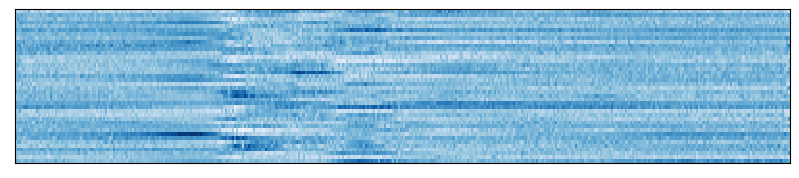
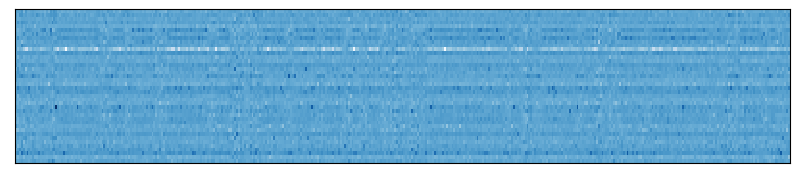
vis gesture code

diff --git a/src/utils.py b/src/utils.py
@@ -582,7 +582,7 @@ def draw_2d_ema(ema_data, ema_data_hat, mode, title, **args):
     plt.title(title,fontdict = {'fontsize' : 50})
 
     #plt.savefig(os.path.join(args['save_path'], title+"_2d_"+".png"))
-    plt.savefig("/home/jiachenlian/ema_gesture/"+title+"_2d"+".png")
+    plt.savefig("/home/jiachenlian/ema_gesture/gestures/"+title+"_2d"+".png")
 
     plt.clf()
     
@@ -874,20 +874,13 @@ def draw_3d_ieee(ema_data, ema_data_hat, mode, title, **args):
     
     
 def vis_gestures_ema(model, **args):
-    #gestures = model.conv_decoder.weight #[num_pellets, 1, num_gestures, win_size]
-    if args['vq_resynthesis']:
-        gestures = model.vq_model._embedding.weight.reshape(args['num_gestures'], args['num_pellets'], args['win_size']).permute(1,0,2).unsqueeze(1)
-    else:
-        gestures = model.gesture_weight.unsqueeze(1)
-        
-    print(gestures.shape)
+     #[num_pellets, 1, num_gestures, win_size]
+    gestures = model.g1.permute(2, 0, 1).unsqueeze(1)
+    print(f"gesture shape: {gestures.shape}")
     
     ema_id, wav_path, mel_data, text_trans = ema2info(**args)
-    #draw_mel_ema(mels=mel_data, mode=ema_id, title=text_trans)
-    #draw_mel2(wav=wav_path, mode=ema_id, title=text_trans)
     for i in range(args['num_gestures']):
         gesture_index = i
-        #draw_kinematics_ema(gestures[:,0,gesture_index,:].unsqueeze(0).cpu().detach().numpy(), None, mode='gesture', title='Gesture '+str(gesture_index), **args)
         draw_2d_ema(gestures[:,0,gesture_index,:].transpose(0,1).cpu().detach().numpy(), None, mode='gesture', title='Gesture'+str(gesture_index), **args)
 
     

diff --git a/src/trainer.py b/src/trainer.py
@@ -188,14 +188,17 @@ def trainer_resynthesis_ema(model, optimizer, lr_scheduler, ema_dataloader_train
             inp, inp_hat, (h1,h2,h3,h4,h5), (z1,z2,z3,z4,z5), (z1_hat,z5_hat), sparsity_c, sparsity_t, entropy_c, entropy_t = model(ema_batch, None)
 
             rec_loss = F.l1_loss(inp, inp_hat, reduction='mean')
+
+            rec_z1_loss = F.l1_loss(z1, z1_hat.transpose(1,2), reduction='mean') 
+            rec_z5_loss = F.l1_loss(z5, z5_hat.transpose(1,2), reduction='mean') 
                 
-            loss = args['rec_factor']*rec_loss
+            loss = args['rec_factor']*rec_loss + args['rec_factor1']*rec_z1_loss + args['rec_factor5']*rec_z5_loss 
 
             loss.backward()
             torch.nn.utils.clip_grad_norm_(model.parameters(), 100)
             optimizer.step()
 
-            sys.stdout.write(" rec_loss=%.4f, sparsity_c=%.4f, sparsity_t=%.4f, entropy_t=%.4f, entropy_c=%.4f" %(rec_loss.item(), 0, 0, 0, 0))
+            sys.stdout.write(" rec_loss=%.4f, rec_1=%.4f, rec_5=%.4f, sparsity_c=%.4f, sparsity_t=%.4f, entropy_t=%.4f, entropy_c=%.4f" %(rec_loss.item(), rec_z1_loss.item(), rec_z5_loss.item(), sparsity_c, sparsity_t, 0, 0))
 
             rec_loss_e.append(rec_loss.item())
             writer.add_scalar('Rec_Loss_train', rec_loss.item(), count)

diff --git a/src/main.py b/src/main.py
@@ -50,6 +50,8 @@ parser.add_argument('--sparse_t', action='store_true', help='')
 parser.add_argument('--entropy_t', action='store_true', help='')
 parser.add_argument('--entropy_c', action='store_true', help='')
 parser.add_argument('--rec_factor',type=float, default=1, help='')
+parser.add_argument('--rec_factor1',type=float, default=1, help='')
+parser.add_argument('--rec_factor5',type=float, default=1, help='')
 parser.add_argument('--sparse_c_factor',type=float, default=1e-3, help='')
 parser.add_argument('--sparse_t_factor',type=float, default=1e-4, help='')
 parser.add_argument('--entropy_t_factor',type=float, default=1, help='')
@@ -111,7 +113,7 @@ if __name__ == "__main__":
         vis_H(model, **vars(args))
         if args.dataset == 'ema':
             vis_kinematics_ema(model, **vars(args))
-            # vis_gestures_ema(model, **vars(args))
+            vis_gestures_ema(model, **vars(args))
         exit()
         
     if args.dataset == 'ema':

diff --git a/src/models/ema_model.py b/src/models/ema_model.py
@@ -107,6 +107,8 @@ class EMA_Model(nn.Module):
         #####-----------------------------------------
         #This is for Gestures Modeling (a codebook)
         self.gestures = torch.randn(self.num_gestures, self.win_size, self.num_pellets) # [B'(num_gestures), T_win(window size), 12]
+        self.g1 = None
+        self.g5 = None
 
        
         #####-----------------------------------------
@@ -172,6 +174,10 @@ class EMA_Model(nn.Module):
         g4 = self.conformer_decoder_layer2(g)          #out: [B,T//2,24]  
         g = self.upsampling_layer2(g4)                 #out: [B,T,12]  
         g5 = self.conformer_decoder_layer3(g)          #out: [B,T,12] 
+
+
+        self.g1 = g1
+        self.g5 = g5
 
 
         #####-----------------------------------------
